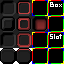
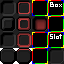
Some more Blocks
- some more blocks
- added slot selection for inventory list
- made inventory blocks 'round' (removing a pixel at each corner
- removed block selection when inside that block

Changed region(s): [[0.75, 0.75, 1.0, 1.0]]

diff --git a/src/LAB_block.c b/src/LAB_block.c
@@ -34,6 +34,39 @@ LAB_Block LAB_BLOCK_AIR = {
     .flags = 0,
 };
 
+
+LAB_DEF_MODEL_CUBE_ALL(LAB_MODEL_BASALT, 0, 0, LAB_RGB(80, 70, 60));
+LAB_Block LAB_BLOCK_BASALT = {
+    .flags = LAB_BLOCK_SOLID,
+    .tint = LAB_RGB(80, 70, 60),
+    .tx = 0, 0,
+    .model = &LAB_MODEL_BASALT,
+};
+
+LAB_DEF_MODEL_CUBE_ALL(LAB_MODEL_BASALTCOBBLE, 1, 0, LAB_RGB(80, 70, 60));
+LAB_Block LAB_BLOCK_BASALTCOBBLE = {
+    .flags = LAB_BLOCK_SOLID,
+    .tint = LAB_RGB(80, 70, 60),
+    .tx = 1, 0,
+    .model = &LAB_MODEL_BASALTCOBBLE,
+};
+
+LAB_DEF_MODEL_CUBE_ALL(LAB_MODEL_BASALTBRICKS, 1, 1, LAB_RGB(80, 70, 60));
+LAB_Block LAB_BLOCK_BASALTBRICKS = {
+    .flags = LAB_BLOCK_SOLID,
+    .tint = LAB_RGB(80, 70, 60),
+    .tx = 1, 1,
+    .model = &LAB_MODEL_BASALTBRICKS,
+};
+
+LAB_DEF_MODEL_CUBE_ALL(LAB_MODEL_SMOOTHBASALT, 0, 1, LAB_RGB(80, 70, 60));
+LAB_Block LAB_BLOCK_SMOOTHBASALT = {
+    .flags = LAB_BLOCK_SOLID,
+    .tint = LAB_RGB(80, 70, 60),
+    .tx = 1, 2,
+    .model = &LAB_MODEL_SMOOTHBASALT,
+};
+
 LAB_DEF_MODEL_CUBE_ALL(LAB_MODEL_STONE, 0, 0, LAB_RGB(180, 180, 170));
 LAB_Block LAB_BLOCK_STONE = {
     .flags = LAB_BLOCK_SOLID,
@@ -100,34 +133,35 @@ LAB_Block LAB_BLOCK_SMOOTHMARBLE = {
 };
 
 
-LAB_DEF_MODEL_CUBE_ALL(LAB_MODEL_SANDSTONE, 0, 0, LAB_RGB(236, 223, 179));
+LAB_DEF_MODEL_CUBE_ALL(LAB_MODEL_SANDSTONE, 0, 0, LAB_RGB(255, 230, 150));
 LAB_Block LAB_BLOCK_SANDSTONE = {
     .flags = LAB_BLOCK_SOLID,
-    .tint = LAB_RGB(236, 223, 179),
+    //.tint = LAB_RGB(236, 223, 179),
+    .tint = LAB_RGB(255, 230, 150),
     .tx = 0, 0,
     .model = &LAB_MODEL_SANDSTONE,
 };
 
-LAB_DEF_MODEL_CUBE_ALL(LAB_MODEL_SANDCOBBLE, 1, 0, LAB_RGB(236, 223, 179));
+LAB_DEF_MODEL_CUBE_ALL(LAB_MODEL_SANDCOBBLE, 1, 0, LAB_RGB(255, 230, 150));
 LAB_Block LAB_BLOCK_SANDCOBBLE = {
     .flags = LAB_BLOCK_SOLID,
-    .tint = LAB_RGB(236, 223, 179),
+    .tint = LAB_RGB(255, 230, 150),
     .tx = 1, 0,
     .model = &LAB_MODEL_SANDCOBBLE,
 };
 
-LAB_DEF_MODEL_CUBE_ALL(LAB_MODEL_SANDBRICKS, 1, 1, LAB_RGB(236, 223, 179));
+LAB_DEF_MODEL_CUBE_ALL(LAB_MODEL_SANDBRICKS, 1, 1, LAB_RGB(255, 230, 150));
 LAB_Block LAB_BLOCK_SANDBRICKS = {
     .flags = LAB_BLOCK_SOLID,
-    .tint = LAB_RGB(236, 223, 179),
+    .tint = LAB_RGB(255, 230, 150),
     .tx = 1, 1,
     .model = &LAB_MODEL_SANDBRICKS,
 };
 
-LAB_DEF_MODEL_CUBE_ALL(LAB_MODEL_SMOOTHSAND, 0, 1, LAB_RGB(236, 223, 179));
+LAB_DEF_MODEL_CUBE_ALL(LAB_MODEL_SMOOTHSAND, 0, 1, LAB_RGB(255, 230, 150));
 LAB_Block LAB_BLOCK_SMOOTHSAND = {
     .flags = LAB_BLOCK_SOLID,
-    .tint = LAB_RGB(236, 223, 179),
+    .tint = LAB_RGB(255, 230, 150),
     .tx = 1, 2,
     .model = &LAB_MODEL_SMOOTHSAND,
 };
@@ -241,6 +275,10 @@ LAB_Block LAB_BLOCK_RED_LIGHT = {
 
 LAB_Block* LAB_blocks_arr[] =
 {
+    &LAB_BLOCK_BASALT,
+    &LAB_BLOCK_BASALTCOBBLE,
+    &LAB_BLOCK_BASALTBRICKS,
+    &LAB_BLOCK_SMOOTHBASALT,
     &LAB_BLOCK_STONE,
     &LAB_BLOCK_COBBLESTONE,
     &LAB_BLOCK_STONEBRICKS,

diff --git a/src/LAB_view.c b/src/LAB_view.c
@@ -344,12 +344,80 @@ static void LAB_ViewRenderChunk(LAB_View* view, LAB_ViewChunkEntry* chunk_entry)
 
 
 
+static void LAB_RenderBlockSelection(int x, int y, int z)
+{
+#define O (-0.001f)
+#define I ( 1.001f)
+//#define O 0
+//#define I 1
+    static const float box[] = {
+        O, O, O, /*--*/ I, O, O,
+        O, O, O, /*--*/ O, I, O,
+        O, O, O, /*--*/ O, O, I,
+
+        I, I, O, /*--*/ O, I, O,
+        I, I, O, /*--*/ I, O, O,
+        I, I, O, /*--*/ I, I, I,
+
+        O, I, I, /*--*/ I, I, I,
+        O, I, I, /*--*/ O, O, I,
+        O, I, I, /*--*/ O, I, O,
+
+        I, O, I, /*--*/ O, O, I,
+        I, O, I, /*--*/ I, I, I,
+        I, O, I, /*--*/ I, O, O,
+    };
+#undef I
+#undef O
+
+    glPushMatrix();
+    glTranslatef(x, y, z);
+    glDisableClientState(GL_COLOR_ARRAY);
+    glDisableClientState(GL_TEXTURE_COORD_ARRAY);
+    glVertexPointer(3, GL_FLOAT, 0, box);
+    glLineWidth(2);
+    glDepthRange(0, 0.9999);
+    glDrawArrays(GL_LINES, 0, sizeof(box)/sizeof(*box)/3);
+    glDepthRange(0, 1);
+    glPopMatrix();
+}
 
 
+static void LAB_View_RenderBlockSelection(LAB_View* view)
+{
+    int target[3]; // targeted block
+    int prev[3]; // previous block
+    float hit[3]; // hit pos
 
+    // view-pos
+    float vpos[3];
+    // view-dir
+    float dir[3];
+
+    vpos[0] = view->x;
+    vpos[1] = view->y;
+    vpos[2] = view->z;
+    LAB_ViewGetDirection(view, dir);
+
+    if(LAB_TraceBlock(view->world, 10, vpos, dir, LAB_CHUNK_GENERATE, LAB_BLOCK_INTERACTABLE, target, prev, hit))
+    {
+        glEnable(GL_BLEND);
+        //glEnable(GL_LINE_SMOOTH);
+        //glHint(GL_LINE_SMOOTH, GL_NICEST);
+        glBlendFunc(GL_SRC_ALPHA, GL_ONE_MINUS_SRC_ALPHA);
+        glColor4f(0, 0, 0, 0.7);
+        if(memcmp(target, prev, sizeof target) != 0)
+            LAB_RenderBlockSelection(target[0], target[1], target[2]);
+        //glColor4f(0, 0, 0, 0.1);
+        //LAB_RenderBlockSelection(prev[0], prev[1], prev[2]);
+    }
+}
 
 void LAB_ViewRenderHud(LAB_View* view)
 {
+
+    LAB_View_RenderBlockSelection(view);
+
     glMatrixMode(GL_MODELVIEW);
     glLoadIdentity();
     glEnable(GL_BLEND);

diff --git a/src/LAB_gui_inventory_list.c b/src/LAB_gui_inventory_list.c
@@ -16,6 +16,8 @@ void LAB_GuiInventoryList_Create(LAB_GuiInventoryList* lst,
     lst->on_event = &LAB_GuiInventoryList_OnEvent;
     lst->render = &LAB_GuiInventoryList_Render;
 
+    lst->selected_slot = -1;
+
     lst->inventory = inventory;
     lst->inventory_user = inventory_user;
 }
@@ -46,7 +48,8 @@ void LAB_GuiInventoryList_Render(LAB_GuiComponent* self, SDL_Surface* surf, int 
         int cx, cy;
         cx = x+xi*LAB_SLOT_SIZE;
         cy = y+yi*LAB_SLOT_SIZE;
-        LAB_RenderRect(surf, cx, cy, LAB_SLOT_SIZE, LAB_SLOT_SIZE, 0, 0);
+        int tx = cself->selected_slot == i ? 1 : 0;
+        LAB_RenderRect(surf, cx, cy, LAB_SLOT_SIZE, LAB_SLOT_SIZE, tx, 2);
         LAB_Block* b = cself->inventory->get_slot(cself->inventory_user, i);
         SDL_Surface* bsurf = LAB_RenderBlock2D(b);
 
@@ -86,6 +89,19 @@ bool LAB_GuiInventoryList_OnEvent(LAB_GuiComponent* self, LAB_GuiManager* mgr, S
                 cself->inventory->take_slot(cself->inventory_user, slot);
                 LAB_GuiManager_Dismiss(mgr);
             }
+            return 1;
+        } break;
+        case SDL_MOUSEMOTION:
+        {
+            cself->selected_slot = slot;
+            return 1;
+        } break;
+    }
+    if(LAB_IS_GUI_EVENT(event->type)) switch(LAB_GUI_EVENT(event->type))
+    {
+        case LAB_GUI_EVENT_UNFOCUS:
+        {
+            cself->selected_slot = -1;
             return 1;
         } break;
     }

diff --git a/src/LAB_world.c b/src/LAB_world.c
@@ -237,6 +237,13 @@ int LAB_TraceBlock(LAB_World* world, int max_distance, float vpos[3], float dir[
     prev[1] = (int)floor(p[1]);
     prev[2] = (int)floor(p[2]);
 
+    if(LAB_GetBlock(world, prev[0], prev[1], prev[2], flags)->flags&block_flags)
+    {
+        target[0] = prev[0];
+        target[1] = prev[1];
+        target[2] = prev[2];
+        return 1;
+    }
     for(int i = 0; i < max_distance*16; ++i)
     {
         p[0] += dir[0]/16;

diff --git a/src/LAB_gui_component.c b/src/LAB_gui_component.c
@@ -93,7 +93,7 @@ void LAB_GuiContainer_Render_Framed(LAB_GuiComponent* self, SDL_Surface* surf, i
     //LAB_GuiContainer* cself = (LAB_GuiContainer*)self;
 
     //surf.paintpicture x, y, cself->w, cself->h, sp.x, sp.y, sp.w, sp.h;
-    LAB_RenderRect(surf, 0, 0, self->w, self->h, 0, 3);
+    LAB_RenderRect(surf, 0, 0, self->w, self->h, 1, 3);
 
     LAB_GuiContainer_Render(self, surf, x, y);
 }

diff --git a/include/LAB_block.h b/include/LAB_block.h
@@ -55,6 +55,10 @@ IXO_DECLARE_CLASS(LAB_Block);
 
 extern LAB_Block LAB_BLOCK_OUTSIDE,
                  LAB_BLOCK_AIR,
+                 LAB_BLOCK_BASALT,
+                 LAB_BLOCK_BASALTCOBBLE,
+                 LAB_BLOCK_BASALTBRICKS,
+                 LAB_BLOCK_SMOOTHBASALT,
                  LAB_BLOCK_STONE,
                  LAB_BLOCK_COBBLESTONE,
                  LAB_BLOCK_STONEBRICKS,

diff --git a/src/LAB_render_item.c b/src/LAB_render_item.c
@@ -36,6 +36,10 @@ SDL_Surface* LAB_RenderBlock2D(LAB_Block* block)
         *c = LAB_MulColor(*c, block_color);
 
     }
+    ((LAB_Color*)surf->pixels)[0] =
+    ((LAB_Color*)surf->pixels)[31] =
+    ((LAB_Color*)surf->pixels)[32*31] =
+    ((LAB_Color*)surf->pixels)[32*31+31] = 0;
     //SDL_BlitScaled()
     //memset(surf->pixels, rand()&0xff, 16*16*4);
     return surf;

diff --git a/src/main.c b/src/main.c
@@ -62,7 +62,7 @@ int main(int argc, char** argv) {
     view.preload_dist = LAB_PRELOAD_CHUNK(view.render_dist);
     view.keep_dist = LAB_KEEP_CHUNK(view.render_dist);
     view.flags = LAB_VIEW_SHOW_HUD;
-    view.max_update = 16;
+    view.max_update = 1000;//16;
     view.load_amount = 3;
 
     CHECK_INIT(LAB_ConstructViewInput(&view_input, &view));

diff --git a/include/LAB_gui_inventory_list.h b/include/LAB_gui_inventory_list.h
@@ -12,6 +12,7 @@ typedef struct LAB_Block LAB_Block;
 typedef struct LAB_GuiInventoryList
 {
     LAB_GUI_COMPONENT_INHERIT;
+    size_t selected_slot;
     LAB_IInventory const* inventory;
     void* inventory_user;
 
